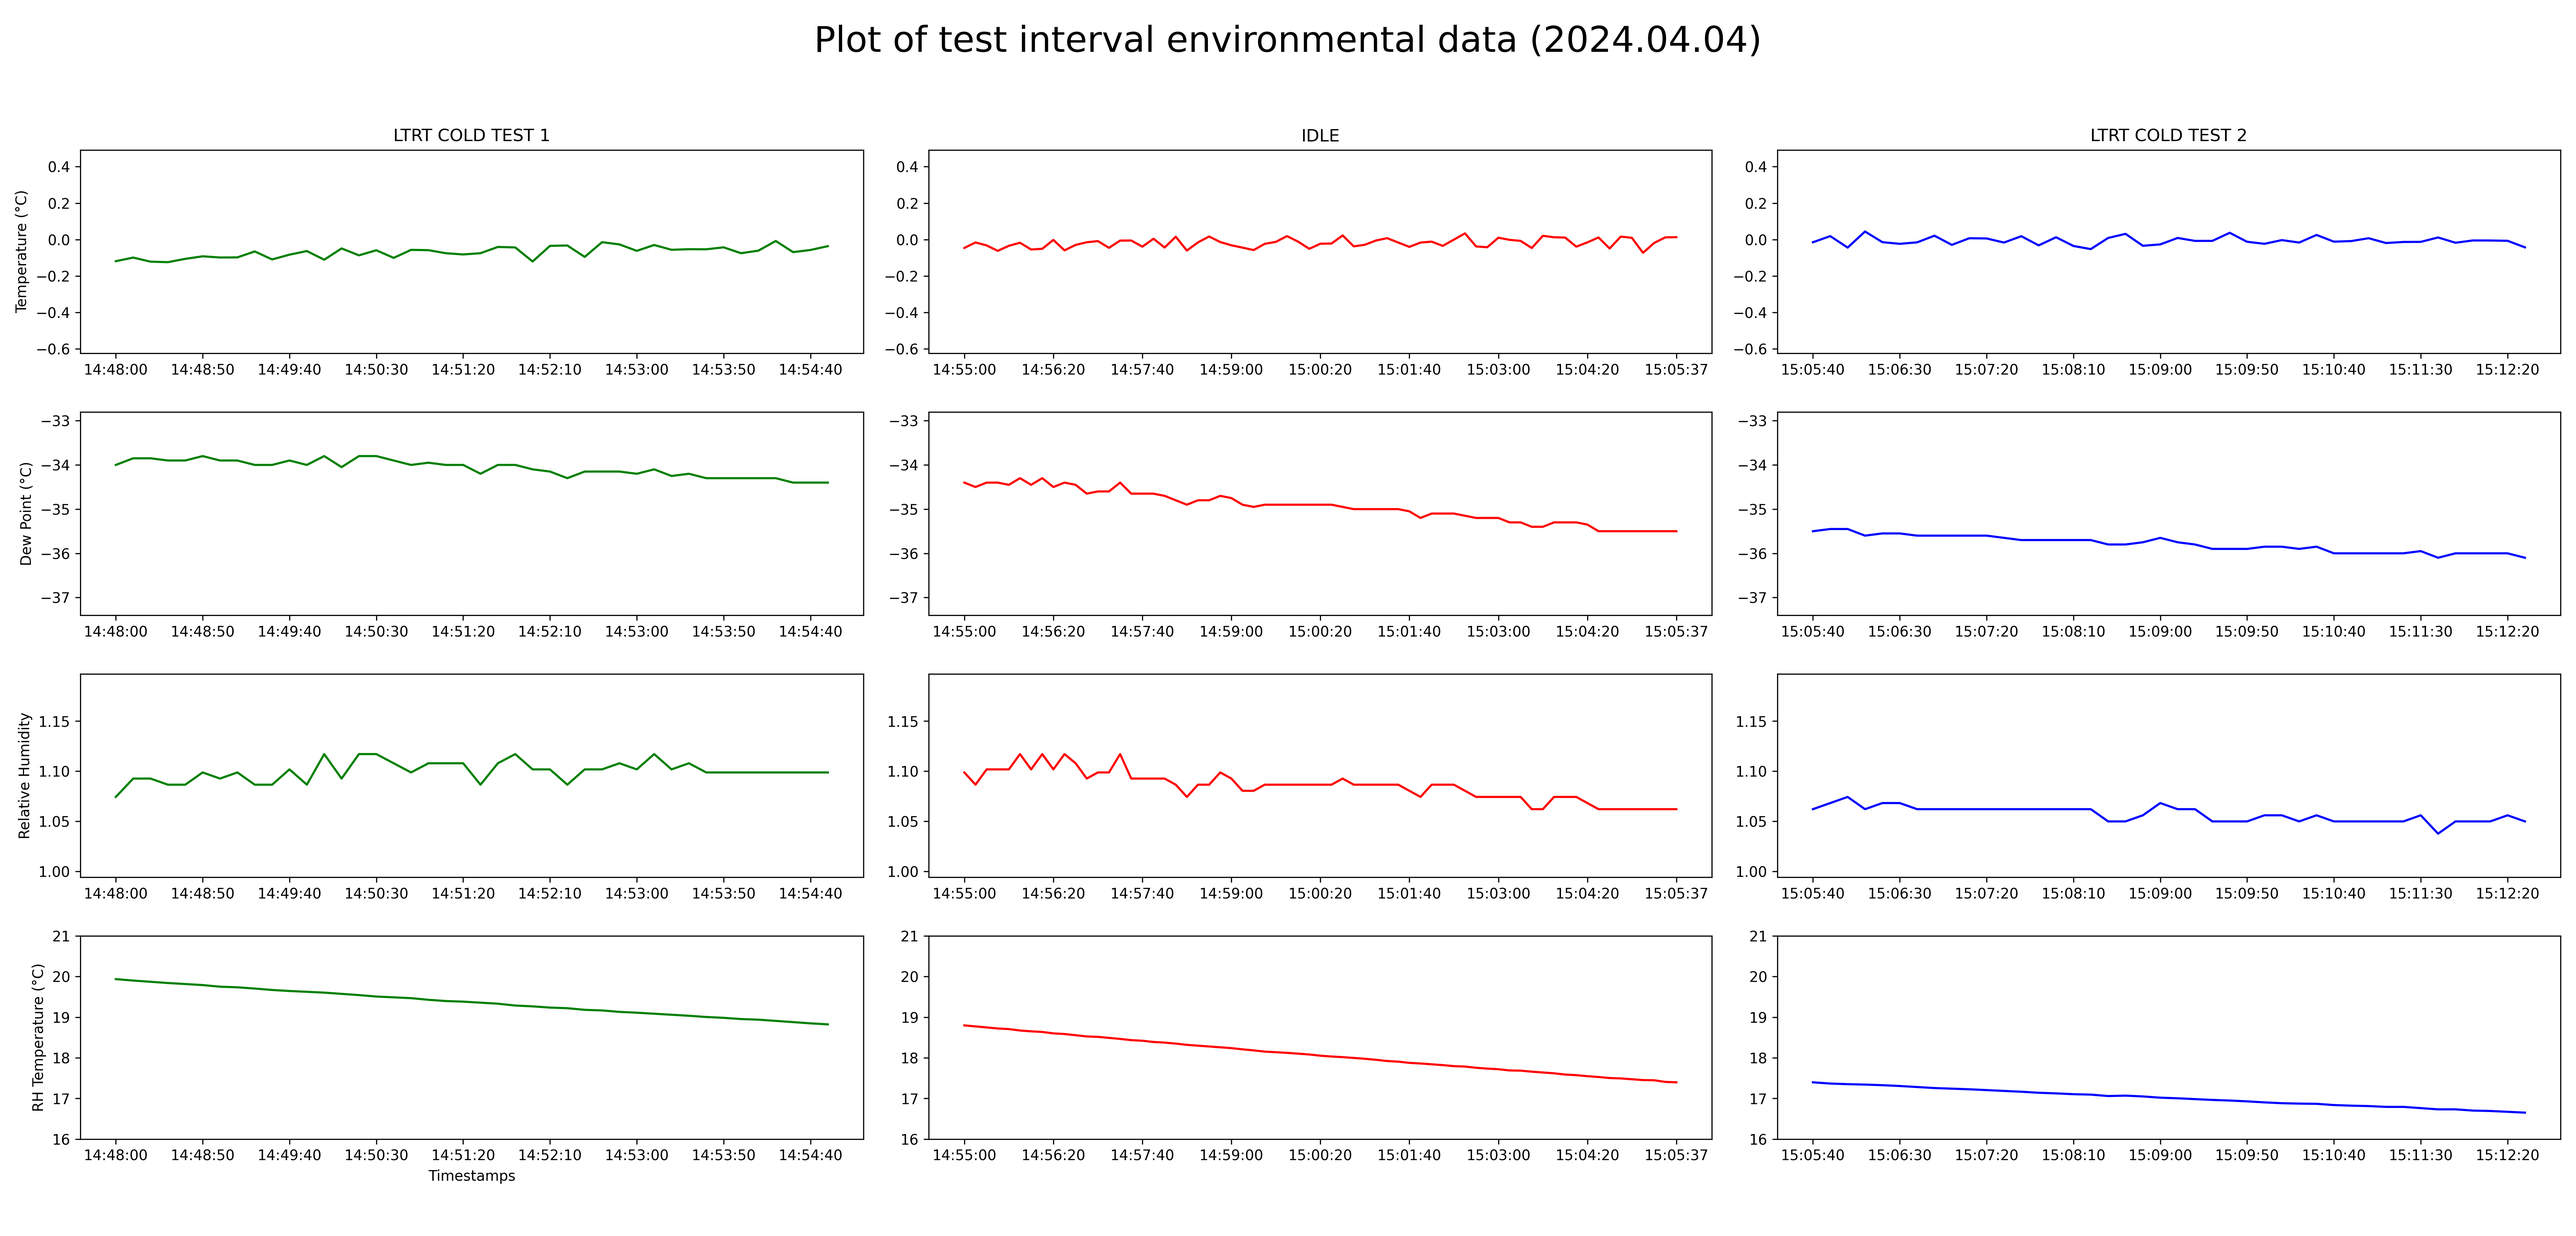
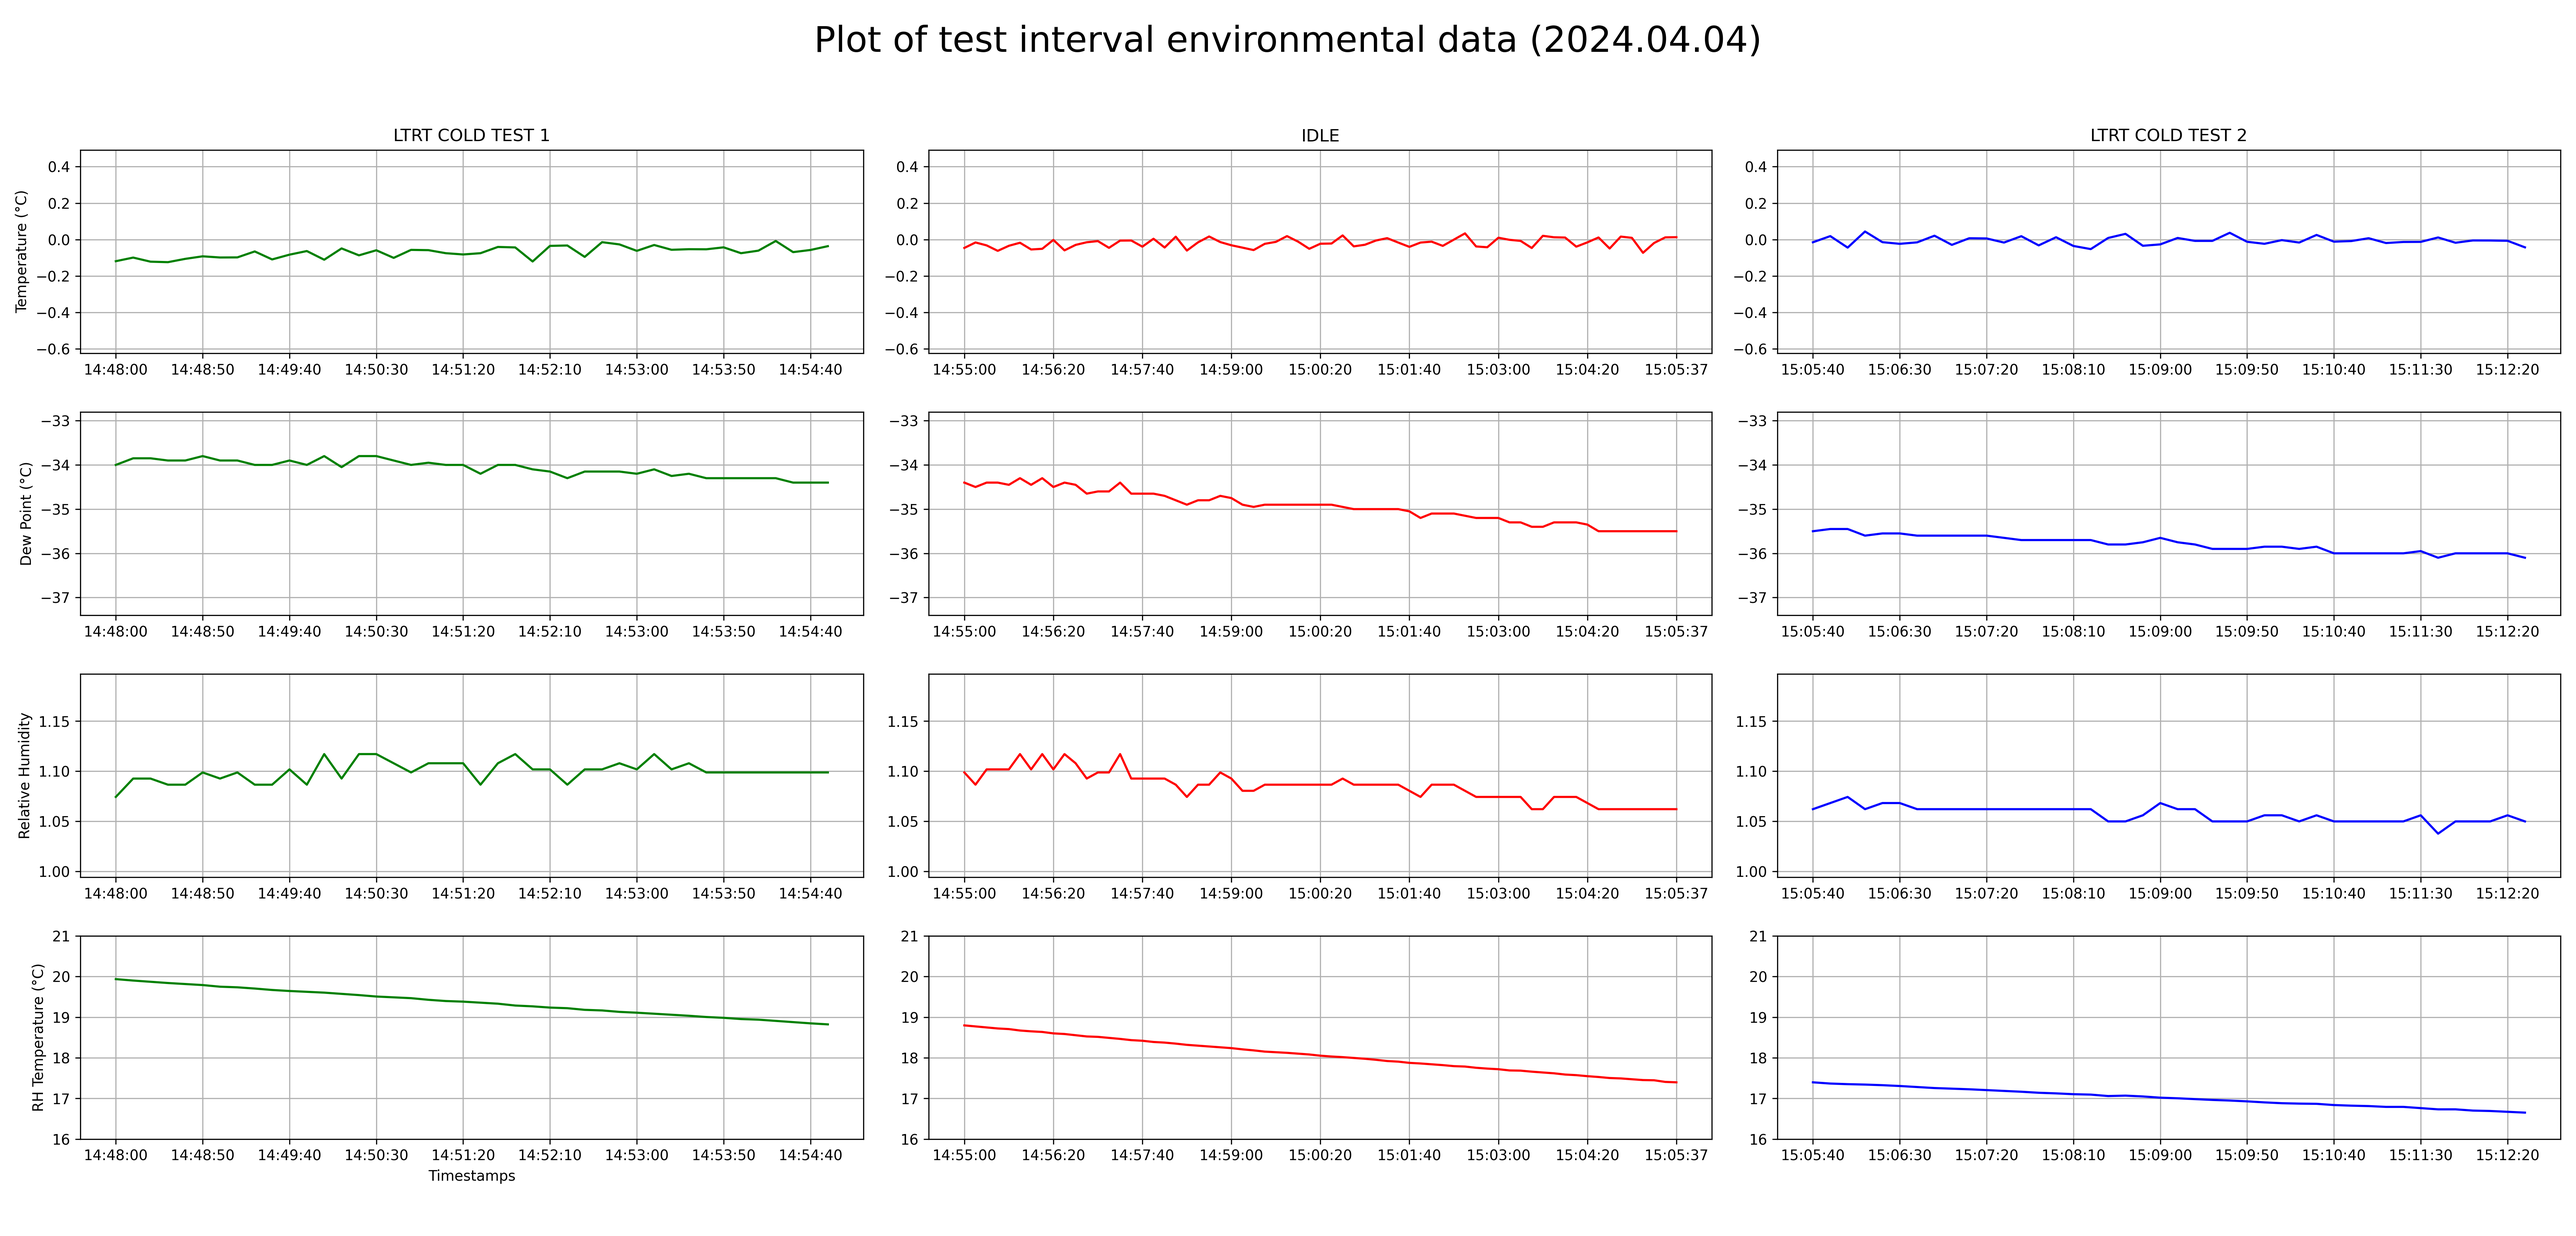
update plots(added grid)

diff --git a/Thesis/analyze_env_fulltest.py b/Thesis/analyze_env_fulltest.py
@@ -22,12 +22,48 @@ class get_data():
             
         return data
     
+#Read Test Dates
+test_time = {}
+results_lst1 = ["/results/20240404/ABCStar_R5H0_ppa_20240404_520_24_RESPONSE_CURVE_PPA.json",
+               "/results/20240404/ABCStar_R5H0_ppa_20240404_520_34_NO_PPA.json",
+               "/results/20240404/ABCStar_R5H0_ppa_20240404_520_19_PEDESTAL_TRIM_PPA.json",
+               "/results/20240404/ABCStar_R5H0_ppa_20240404_520_20_STROBE_DELAY_PPA.json"]
+
+test_time = {}
+for file in results_lst1:
+
+    reader = get_data(file)
+    data = reader.test_env_data()
+    # Extract the "date" field (assuming it exists)
+    date_str = data["date"]
+    # Convert date string to numerical format for plotting
+    #date_num = mdates.date2num(datetime.datetime.strptime(date_str, "%Y-%m-%d"))
+    test_time[file] = date_str
+
+results_lst2 = ["/results/20240404/ABCStar_R5H0_ppa_20240404_520_40_RESPONSE_CURVE_PPA.json",
+               "/results/20240404/ABCStar_R5H0_ppa_20240404_520_50_NO_PPA.json",
+               "/results/20240404/ABCStar_R5H0_ppa_20240404_520_35_PEDESTAL_TRIM_PPA.json",
+               "/results/20240404/ABCStar_R5H0_ppa_20240404_520_36_STROBE_DELAY_PPA.json"]
+    
+for file in results_lst2:
+
+    reader = get_data(file)
+    data = reader.test_env_data()
+    # Extract the "date" field (assuming it exists)
+    date_str = data["date"]
+    # Convert date string to numerical format for plotting
+    #date_num = mdates.date2num(datetime.datetime.strptime(date_str, "%Y-%m-%d"))
+    test_time[file] = date_str
     
 #Read Test Data
 file = "/results/20240404/output20240404/test_data_2024-04-04.json"
 #file = "\\results\\20240404\\output20240404\\test_data_2024-04-04.json"
 reader = get_data(file)
 data = reader.test_env_data()
+
+
+
+    
 
 
 #Data for plots
@@ -92,6 +128,10 @@ for i in range(0, num_tests, 3):  # Loop through test keys by increments of 3
     test_data_2 = all_results[test_key_2]
     test_key_3 = test_keys[i + 2]
     test_data_3 = all_results[test_key_3]
+    
+    test_time_labels = [datetime.fromisoformat(t).strftime('%H:%M:%S') for t in test_time.values()]
+    test_time_labels1 = test_time_labels[:4]
+    test_time_labels2 = test_time_labels[4:]
 
     # Extract time and sensor data for each test
     time_labels_1 = [datetime.fromisoformat(t).strftime('%H:%M:%S') for t in test_data_1["time"]]
@@ -135,7 +175,15 @@ for i in range(0, num_tests, 3):  # Loop through test keys by increments of 3
     min_val = min(x for x in temp_4_1 if x is not None)-0.5
     max_val = max(x for x in temp_4_1 if x is not None)+0.5
     plt.ylim(min_val, max_val)
+    plt.grid(True)
     plt.title("LTRT COLD TEST 1")
+    #plt.axvline(x="14:49:41", color='r', linestyle='--')
+
+    # Annotate the test start event
+    #plt.annotate(, 
+                 #xy=(time_labels[start_index], start_temp), 
+                 #xytext=(0, -20),  # Adjust the y position to be above the x-axis
+                 #textcoords='offset points')
     plt.xticks(ticks=range(0, len(time_labels_1), len(time_labels_1) // 9 + 1)) 
     #plt.xticks([])
     
@@ -145,6 +193,7 @@ for i in range(0, num_tests, 3):  # Loop through test keys by increments of 3
     plt.ylim(min_val, max_val)
     plt.xticks([])
     plt.title("IDLE")
+    plt.grid(True)
     plt.xticks(ticks=range(0, len(time_labels_3), len(time_labels_3) // 9 + 1))
     #plt.xticks([])
     
@@ -154,6 +203,7 @@ for i in range(0, num_tests, 3):  # Loop through test keys by increments of 3
     plt.ylim(min_val, max_val)
     plt.xticks([])
     plt.title("LTRT COLD TEST 2")
+    plt.grid(True)
     plt.xticks(ticks=range(0, len(time_labels_1), len(time_labels_1) // 9 + 1)) 
     #plt.xticks([])
 
@@ -164,12 +214,14 @@ for i in range(0, num_tests, 3):  # Loop through test keys by increments of 3
     min_val = min(x for x in dp4_1 if x is not None)-3
     max_val = max(x for x in dp4_1 if x is not None)+1
     plt.ylim(min_val, max_val)
+    plt.grid(True)
     plt.xticks(ticks=range(0, len(time_labels_1), len(time_labels_1) // 9 + 1)) 
     #plt.xticks([])
     
     plt.subplot(4, 3, i + 5)
     plt.plot(time_labels_3, dp4_3, 'r-', label=test_key_3)
     plt.ylim(min_val, max_val)
+    plt.grid(True)
     #plt.yticks([])  # Remove y-axis labels
     plt.xticks(ticks=range(0, len(time_labels_3), len(time_labels_3) // 9 + 1)) 
     #plt.xticks([])
@@ -177,6 +229,7 @@ for i in range(0, num_tests, 3):  # Loop through test keys by increments of 3
     plt.subplot(4, 3, i + 6)
     plt.plot(time_labels_2, dp4_2, 'b-', label=test_key_2)
     plt.ylim(min_val, max_val)
+    plt.grid(True)
     #plt.yticks([])  # Remove y-axis labels
     plt.xticks(ticks=range(0, len(time_labels_1), len(time_labels_1) // 9 + 1)) 
     #plt.xticks([])
@@ -188,6 +241,7 @@ for i in range(0, num_tests, 3):  # Loop through test keys by increments of 3
     min_val = min(x for x in rh4_1 if x is not None)-0.08
     max_val = max(x for x in rh4_1 if x is not None)+0.08
     plt.ylim(min_val, max_val)
+    plt.grid(True)
     plt.xticks(ticks=range(0, len(time_labels_1), len(time_labels_1) // 9 + 1)) 
     #plt.xticks([])
     
@@ -195,6 +249,7 @@ for i in range(0, num_tests, 3):  # Loop through test keys by increments of 3
     plt.plot(time_labels_3, rh4_3, 'r-', label=test_key_3)
     #plt.yticks([])  # Remove y-axis labels
     plt.ylim(min_val, max_val)
+    plt.grid(True)
     plt.xticks(ticks=range(0, len(time_labels_3), len(time_labels_3) // 9 + 1)) 
     #plt.xticks([])
     
@@ -202,6 +257,7 @@ for i in range(0, num_tests, 3):  # Loop through test keys by increments of 3
     plt.plot(time_labels_2, rh4_2, 'b-', label=test_key_2)
     #plt.yticks([])  # Remove y-axis labels
     plt.ylim(min_val, max_val)
+    plt.grid(True)
     plt.xticks(ticks=range(0, len(time_labels_1), len(time_labels_1) // 9 + 1)) 
     #plt.xticks([])
     
@@ -210,6 +266,7 @@ for i in range(0, num_tests, 3):  # Loop through test keys by increments of 3
     plt.plot(time_labels_1, rh4_temp_1, 'g-', label=test_key_1)
     plt.ylabel('RH Temperature (°C)')
     plt.xlabel('Timestamps')
+    plt.grid(True)
     min_val = 16#min(x for x in rh4_temp_1 if x is not None)-0.2
     max_val = 21#max(x for x in rh4_temp_1 if x is not None)+0.2
     plt.ylim(min_val, max_val)
@@ -219,6 +276,7 @@ for i in range(0, num_tests, 3):  # Loop through test keys by increments of 3
     plt.subplot(4, 3, i + 11)
     plt.plot(time_labels_3, rh4_temp_3, 'r-', label=test_key_3)
     #plt.yticks([])  # Remove y-axis labels
+    plt.grid(True)
     plt.xticks(ticks=range(0, len(time_labels_3), len(time_labels_3) // 9 + 1)) 
     plt.ylim(min_val, max_val)
     
@@ -226,6 +284,7 @@ for i in range(0, num_tests, 3):  # Loop through test keys by increments of 3
     plt.subplot(4, 3, i + 12)
     plt.plot(time_labels_2, rh4_temp_2, 'b-', label=test_key_2)
     #plt.yticks([])  # Remove y-axis labels
+    plt.grid(True)
     plt.xticks(ticks=range(0, len(time_labels_1), len(time_labels_1) // 9 + 1)) 
     plt.ylim(min_val, max_val)
 
